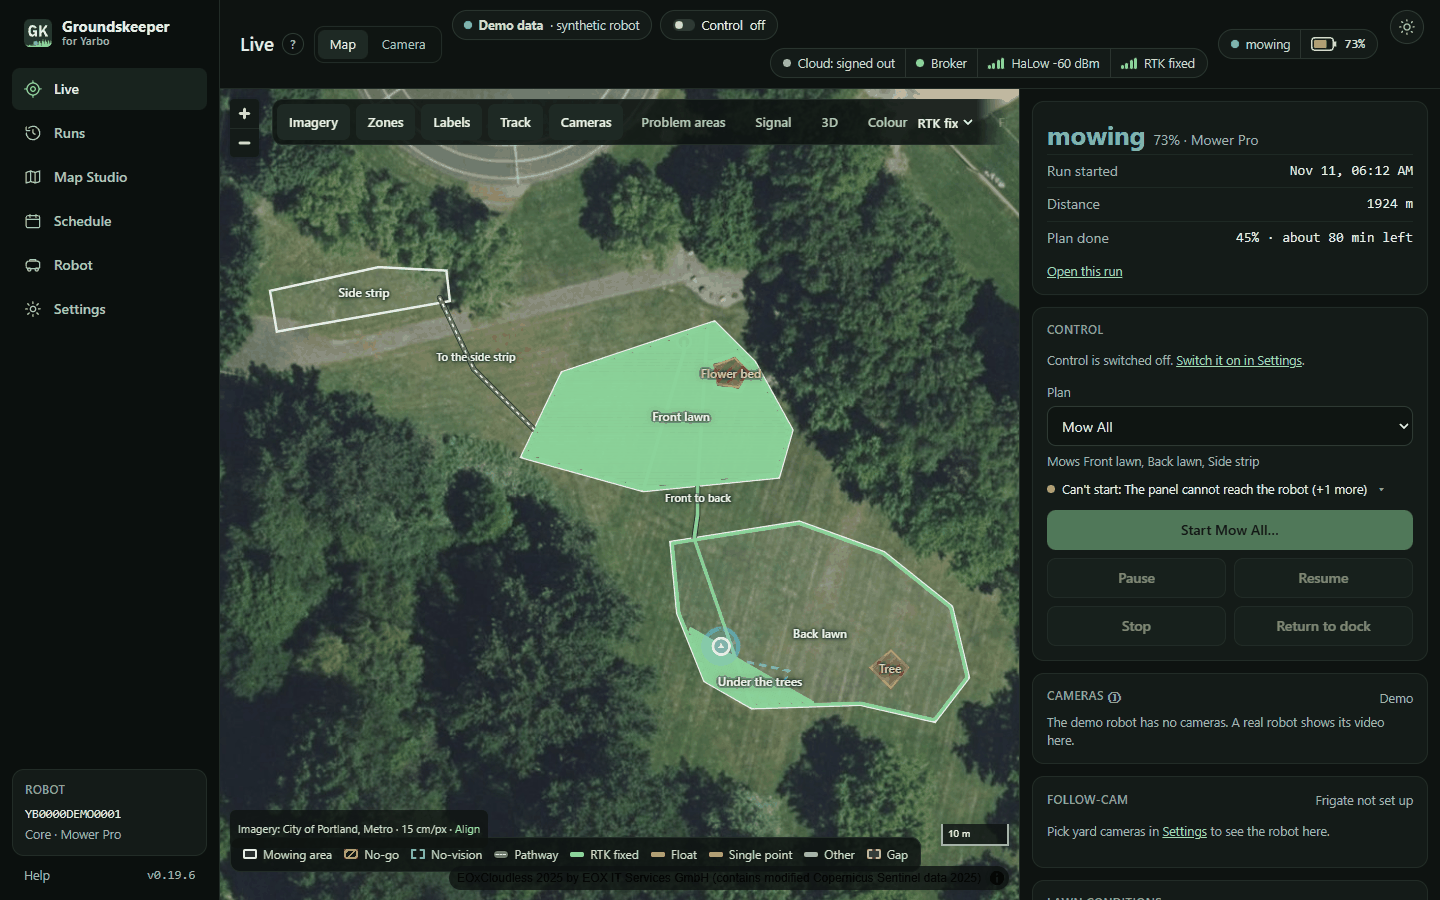
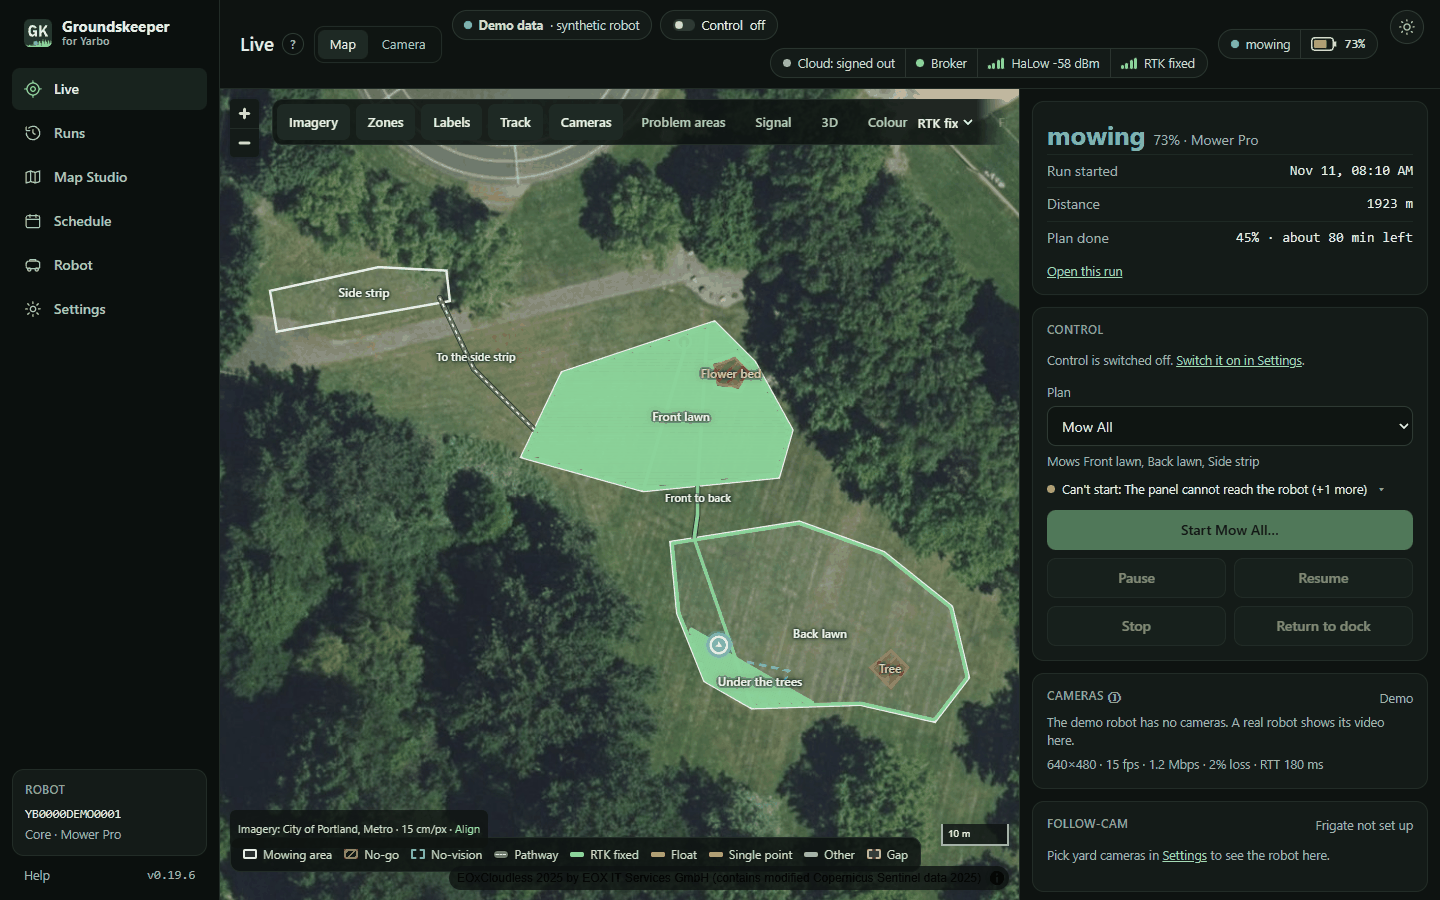
#53: video stats line under the Cameras tile (step 1) (#56)
* #53: show video stats under the Cameras tile (step 1)

One line under the playing video, refreshed every 2 s, from the Agora Web SDK's local counters
(getRemoteVideoStats, getRTCStats, getRemoteNetworkQuality). Nothing is sent anywhere. Says "weak link"
on 5% loss, 10% frozen or a poor downlink, and "slow to draw" when this browser shows far fewer frames
than arrive. The timer stops on every way of leaving. The demo shows a made-up line.

Refs #53 (step 1)

* #53: weak link uses the robot's uplink quality, not its downlink

* #53: keep a real render frame rate of 0 instead of the receive rate

---------

Changed region(s): [[0.7188, 0.84, 0.9688, 0.9644], [0.7188, 0.9956, 0.8125, 1.0], [0.4688, 0.6844, 0.5312, 0.7467]]

diff --git a/web/cameras.js b/web/cameras.js
@@ -30,8 +30,16 @@ const CAM_ROBOT_UID = 1;                           // the robot publishes as uid
 const CAM_SLOW_MS = 15000;                         // joined but no video yet: say why it may be
 const CAM_SETTINGS_MS = 20000;                     // how long a read of the video setting is trusted
 const CAM_SDK_TIMEOUT_MS = 20000;                  // a script load that hangs gives up, so the next try loads again
+const CAM_STATS_MS = 2000;                         // how often the stats line under the video is refreshed
 const CAM_BEAT_MS = 4000;                          // the official app keeps the robot awake about this often while open
 const CAM_JOIN_TIMEOUT_MS = 30000;                 // a join that never settles gives up, so the swap cannot linger
+// "Weak link" thresholds, on the SDK's own numbers (4.24.9): packetLossRate and freezeRate are ratios 0..1, and the network
+// quality is 0 (unknown) to 6 (down), where 4 is "poor". getRemoteNetworkQuality()[uid] describes that remote user's own
+// connection, so for the robot its uplink is the video's source link; its downlink is irrelevant to viewing.
+const CAM_WEAK_LOSS = 0.05;                        // 5% of the robot's packets lost
+const CAM_WEAK_FREEZE = 0.1;                       // frozen for 10% of the time
+const CAM_WEAK_QUALITY = 4;                        // the robot's uplink network quality "poor" or worse
+const CAM_SLOW_DRAW = 0.7;                         // drawn frames under 70% of received ones: the browser, not the link
 const CAM_CONTROL_OFF_HINT = "Control is off, so the panel cannot switch the cameras on or keep the robot awake. They play if the robot already has them on.";
 // STOPGAP (#46). The Web SDK wraps the stream's secret with a built-in 1024-bit RSA key, which holds at most 62 bytes;
 // the robot's secret is 64, so join() throws OperationError. This placeholder (NOT a secret) is what the SDK is given;
@@ -50,7 +58,7 @@ const CAM_SDK_OFF = [
 ];
 
 const cams = { open: false, camera: savedCamera(), phase: "closed", message: "", hint: "", client: null, ticket: 0,
-               slowTimer: null, beatTimer: null, controlOff: false, leaving: Promise.resolve(), settings: null, settingsAt: 0, card: null, stage: null, sdk: null,
+               slowTimer: null, beatTimer: null, statsTimer: null, stats: "", statsWeak: false, statsEl: null, controlOff: false, leaving: Promise.resolve(), settings: null, settingsAt: 0, card: null, stage: null, sdk: null,
                subscribed: 0 };
 
 function savedCamera() {
@@ -82,6 +90,8 @@ async function camerasCard(s) {
   if (!cams.card) {
     cams.stage = h("div", { class: "camsstage", role: "img", "aria-label": "Live view from the robot's camera" });
     cams.card = h("div", { class: "card camscard" });
+    cams.statsEl = h("p", { class: "small muted camstats", style: "margin:6px 0 0", title: "Measured in this browser from the video library's own counters. Nothing is sent anywhere." });
+    camerasStatsShow(cams.demo ? camerasStatsLine(CAM_DEMO_STATS.video, CAM_DEMO_STATS.rtc, CAM_DEMO_STATS.quality) : { text: "", weak: false });
   }
   camerasDraw();
   return cams.card;
@@ -102,7 +112,8 @@ function camerasDraw() {
         h("span", { class: "tip", tabindex: "0", "data-key": "cam-tip", title: "The robot's own cameras, not the yard cameras. They come through Yarbo's cloud and Agora's network, one at a time, and only while this is open." }, "ⓘ")),
       cams.demo ? h("span", { class: "small muted" }, "Demo")
                 : h("span", { class: "small", style: `color:${colour}` }, dot(colour), " ", label)),
-    cams.demo ? h("p", { class: "muted small", style: "margin:6px 0 0" }, "The demo robot has no cameras. A real robot shows its video here.")
+    cams.demo ? [h("p", { class: "muted small", style: "margin:6px 0 0" }, "The demo robot has no cameras. A real robot shows its video here."),
+                 cams.statsEl]
     : cams.open ? [
       h("div", { class: "camchips", role: "group", "aria-label": "Robot camera" },
         CAM_CHOICES.map(([k, name]) => h("button", { type: "button", class: `btn slim${cams.camera === k ? " on" : ""}`, "data-key": `cam-${k}`,
@@ -110,6 +121,7 @@ function camerasDraw() {
           onclick: () => camerasPick(k) }, name)),
         h("button", { type: "button", class: "btn slim", "data-key": "cam-close", title: "Stop the video and leave the channel", onclick: () => camerasStop() }, "Close")),
       cams.stage,
+      cams.statsEl,
       cams.message ? h("p", { class: "small", style: `margin:6px 0 0;color:${colour}`, role: "status" }, cams.message) : null,
       cams.hint ? h("p", { class: "muted small", style: "margin:4px 0 0" }, cams.hint) : null,
       cams.phase === "error" ? h("button", { type: "button", class: "btn slim", "data-key": "cam-retry", style: "margin-top:6px", onclick: () => camerasStart({ on: true }) }, "Try again") : null]
@@ -118,6 +130,63 @@ function camerasDraw() {
         h("button", { type: "button", class: "btn slim", "data-key": "cam-open", title: "Switch the robot's cameras on and show one here. Needs Control on.",
           onclick: () => camerasOpen() }, "Open")),
       cams.message ? h("p", { class: "muted small", style: "margin:6px 0 0", role: "status" }, cams.message) : null]), after);
+}
+
+// Made-up numbers for the demo, which never loads the SDK: it shows what the line looks like on a real robot.
+const CAM_DEMO_STATS = { video: { receiveResolutionWidth: 640, receiveResolutionHeight: 480, renderFrameRate: 15, receiveFrameRate: 15,
+                                  receiveBitrate: 1234000, packetLossRate: 0.02, freezeRate: 0, totalFreezeTime: 0, end2EndDelay: 0 },
+                         rtc: { RTT: 180 }, quality: { uplinkNetworkQuality: 2 } };
+
+// The line under the video, from the SDK's local counters (read by camerasStatsStart). Returns { text, weak }; text is ""
+// when there are no numbers yet. Only numbers are used: no ids, names, tokens or addresses can get in.
+function camerasStatsLine(video, rtc, quality) {
+  const num = (v) => (typeof v === "number" && Number.isFinite(v) ? v : 0);
+  const v = video || {};
+  const w = num(v.receiveResolutionWidth), ht = num(v.receiveResolutionHeight);
+  const bps = num(v.receiveBitrate), loss = num(v.packetLossRate), freezeRate = num(v.freezeRate), froze = num(v.totalFreezeTime);
+  const received = num(v.receiveFrameRate), drawn = typeof v.renderFrameRate === "number" && Number.isFinite(v.renderFrameRate) ? v.renderFrameRate : received;   // a real 0 stays 0
+  const rtt = num(rtc && rtc.RTT), delay = num(v.end2EndDelay);
+  if (!w && !bps && !drawn) return { text: "", weak: false };      // nothing received yet
+  const weak = loss >= CAM_WEAK_LOSS || freezeRate >= CAM_WEAK_FREEZE || num(quality && quality.uplinkNetworkQuality) >= CAM_WEAK_QUALITY;
+  const slow = !weak && received >= 5 && drawn < received * CAM_SLOW_DRAW;
+  const pct = loss * 100;
+  const parts = [
+    w && ht ? `${Math.round(w)}×${Math.round(ht)}` : "",
+    `${Math.round(drawn)} fps`,
+    bps >= 1e6 ? `${(bps / 1e6).toFixed(1)} Mbps` : `${Math.round(bps / 1e3)} kbps`,
+    pct > 0 && pct < 1 ? "<1% loss" : `${Math.round(pct)}% loss`,
+    rtt > 0 ? `RTT ${Math.round(rtt)} ms` : "",
+    delay > 0 ? `delay ${Math.round(delay)} ms` : "",
+    froze >= 1 ? `froze ${Math.round(froze)} s` : "",
+    weak ? "weak link" : slow ? "slow to draw" : ""];               // weak link: the robot's side or the network; slow to draw: this browser
+  return { text: parts.filter(Boolean).join(" · "), weak };
+}
+
+// Puts the line on the tile. It updates the one paragraph in place (no redraw), so the playing video is not touched.
+function camerasStatsShow({ text, weak }) {
+  cams.stats = text;
+  cams.statsWeak = weak;
+  if (!cams.statsEl) return;
+  cams.statsEl.textContent = text;
+  cams.statsEl.hidden = !text;
+  cams.statsEl.className = `small muted camstats${weak ? " weak" : ""}`;
+}
+
+const camerasStatsClear = () => camerasStatsShow({ text: "", weak: false });
+
+// Reads the SDK's local counters for the robot, every CAM_STATS_MS while its video plays. Nothing is sent anywhere. A
+// read that throws shows nothing and logs nothing.
+function camerasStatsStart(client, ticket) {
+  clearInterval(cams.statsTimer);
+  const read = () => {
+    if (ticket !== cams.ticket || !cams.open || cams.client !== client) return;
+    try {
+      const video = (client.getRemoteVideoStats() || {})[CAM_ROBOT_UID];
+      const quality = (client.getRemoteNetworkQuality() || {})[CAM_ROBOT_UID];
+      camerasStatsShow(camerasStatsLine(video, client.getRTCStats(), quality));
+    } catch { camerasStatsClear(); }
+  };
+  cams.statsTimer = setInterval(read, CAM_STATS_MS);
 }
 
 function camerasSet(phase, message, hint) {
@@ -151,6 +220,9 @@ function camerasLeave() {
   clearTimeout(cams.slowTimer);
   clearInterval(cams.beatTimer);                    // no more keep-awake beats, on every way of stopping
   cams.beatTimer = null;
+  clearInterval(cams.statsTimer);                   // and no more stats reads
+  cams.statsTimer = null;
+  camerasStatsClear();
   cams.controlOff = false;
   if (camSwapRemove) camSwapRemove();               // the secret swap lives as long as the client
   const client = cams.client;
@@ -409,6 +481,9 @@ function camerasListen(client, ticket) {
   client.on("user-unpublished", (user, mediaType) => {
     if (live() && Number(user.uid) === CAM_ROBOT_UID && mediaType === "video") {   // not the robot's audio stopping
       cams.subscribed = 0;                        // a later user-published subscribes again
+      clearInterval(cams.statsTimer);
+      cams.statsTimer = null;
+      camerasStatsClear();
       if (cams.stage) cams.stage.replaceChildren();
       camerasSet("waiting", "The robot stopped sending video.", "Its cameras may have switched off, or it went to sleep.");
     }
@@ -434,6 +509,7 @@ async function camerasPlay(client, user, mediaType, ticket) {
   if (ticket !== cams.ticket || !cams.open || !user.videoTrack) return;
   clearTimeout(cams.slowTimer);
   user.videoTrack.play(cams.stage, { fit: "contain" });
+  camerasStatsStart(client, ticket);
   camerasSet("playing", "");
 }
 

diff --git a/web/style.css b/web/style.css
@@ -278,6 +278,8 @@ a { color: var(--link); }
 .camchips { display: flex; flex-wrap: wrap; gap: 6px; }
 /* Live's Cameras tile: the robot's own cameras. The stage keeps a 16:9 box whatever the video does. */
 .camscard .camchips { margin-top: 8px; }
+.camstats { font-variant-numeric: tabular-nums; }
+.camstats.weak { color: var(--warn); }
 .camsstage { margin-top: 8px; aspect-ratio: 16 / 9; width: 100%; border-radius: 8px; overflow: hidden; background: var(--map-ink); }
 .camsstage video { object-fit: contain; }
 .btn.on { background: var(--pressed); border-color: var(--line3); }

diff --git a/tests/test_cameras_js.py b/tests/test_cameras_js.py
@@ -294,7 +294,7 @@ def test_the_first_beat_goes_before_camera_on_and_then_one_every_four_seconds():
 @needs_node
 def test_changing_camera_restarts_the_beats_without_a_second_timer():
     seg = segment(run_flow(), "beats-pick", beats=True)
-    assert [c[0] for c in seg if c[0] in BEAT_CALLS] == ["clear-interval", "interval", "beat"]
+    assert [c[0] for c in seg if c[0] in BEAT_CALLS] == ["clear-interval", "clear-interval", "interval", "beat"]   # the second clear is the stats timer (#53), playing before the pick
     assert ["intervals", 1] in seg
 
 
@@ -446,3 +446,76 @@ def test_a_wrapper_that_cannot_be_restored_goes_quiet_once_removed():
     seg = segment(calls, "direct-wrapped-over")
     frames = [c for c in seg if c[0] == "ws-send"]
     assert len(frames) == 1 and "WRAPPED-BY-THE-SDK" in frames[0][1] and "OVERSECRET" not in frames[0][1]
+
+
+# --- Video stats under the tile (#53, step 1): the SDK's own local counters, read here, sent nowhere. ---
+
+def stats_lines(calls):
+    return {c[1]: (c[2], c[3]) for c in calls if c[0] == "stats"}
+
+
+@needs_node
+def test_the_stats_line_formats_the_sdks_counters():
+    lines = stats_lines(run_flow())
+    assert lines["healthy"] == ("640×480 · 15 fps · 1.2 Mbps · 2% loss · RTT 180 ms", False)
+    assert lines["delay"][0].endswith("RTT 180 ms · delay 320 ms")
+    assert lines["kbps"][0] == "640×480 · 15 fps · 640 kbps · <1% loss · RTT 180 ms"
+    assert lines["no-rtt"][0] == "640×480 · 15 fps · 1.2 Mbps · 2% loss"
+
+
+@needs_node
+def test_a_weak_link_is_said_when_loss_freezes_or_the_quality_is_poor():
+    lines = stats_lines(run_flow())
+    assert lines["loss"] == ("640×480 · 15 fps · 1.2 Mbps · 8% loss · RTT 180 ms · weak link", True)
+    assert lines["freeze"] == ("640×480 · 15 fps · 1.2 Mbps · 2% loss · RTT 180 ms · froze 6 s · weak link", True)
+    assert lines["quality"] == ("640×480 · 15 fps · 1.2 Mbps · 2% loss · RTT 180 ms · weak link", True)
+    assert lines["downlink-ignored"] == ("640×480 · 15 fps · 1.2 Mbps · 2% loss · RTT 180 ms", False)    # only the robot's uplink counts
+    assert lines["quality-unknown"][1] is False and "weak" not in lines["quality-unknown"][0]    # 0 means unknown, not poor
+
+
+@needs_node
+def test_a_slow_browser_is_told_apart_from_a_weak_link():
+    text, weak = stats_lines(run_flow())["slow-browser"]
+    assert text.endswith("slow to draw") and "weak link" not in text and weak is False
+    stalled = stats_lines(run_flow())["render-stalled"]
+    assert stalled == ("640×480 · 0 fps · 1.2 Mbps · 2% loss · RTT 180 ms · slow to draw", False)   # a stalled renderer is not masked
+    assert stats_lines(run_flow())["render-missing"][0].startswith("640×480 · 12 fps")                  # no render counter: use the receive rate
+
+
+@needs_node
+def test_no_numbers_means_no_line_and_a_throwing_sdk_is_quiet():
+    calls = run_flow()
+    assert next(c for c in calls if c[0] == "stats-before") == ["stats-before", ""]
+    lines = stats_lines(calls)
+    for name in ("nothing-yet", "no-user", "bad-numbers", "throws"):
+        assert lines[name] == ("", False), name
+
+
+@needs_node
+def test_the_stats_line_never_carries_a_secret_channel_or_uid():
+    calls = run_flow()
+    assert next(c for c in calls if c[0] == "stats-line-secret-free")[1] is True
+    assert not re.search(r"console\.", CODE)
+
+
+@needs_node
+def test_the_stats_timer_stops_on_every_way_of_stopping():
+    stopped = [c for c in run_flow() if c[0] == "stats-stopped"]
+    assert [c[1] for c in stopped] == ["close", "hidden", "pagehide", "leave-live", "connection-lost", "robot-stops-video"]
+    for _, name, shown, after, reads, timers in stopped:
+        assert shown.startswith("640×480") and after == "" and reads == 0, name
+        assert timers == (1 if name == "robot-stops-video" else 0), name      # that one stays open: the keep-awake beat goes on
+
+
+@needs_node
+def test_changing_camera_clears_the_line_and_never_doubles_the_timer():
+    calls = run_flow()
+    assert next(c for c in calls if c[0] == "stats-after-pick") == ["stats-after-pick", "", 1]   # only the keep-awake beat is left
+    assert next(c for c in calls if c[0] == "stats-timers") == ["stats-timers", 2]               # beat + one stats timer
+
+
+def test_the_stats_source_reads_only_local_sdk_counters_every_two_seconds():
+    assert "CAM_STATS_MS = 2000" in CODE
+    for call in ("getRemoteVideoStats", "getRTCStats", "getRemoteNetworkQuality"):
+        assert CODE.count(f".{call}(") == 1
+    assert re.search(r"function camerasLeave\(\) \{[^}]*clearInterval\(cams\.statsTimer\)", CODE, re.S)

diff --git a/docs/user/live.md b/docs/user/live.md
@@ -75,8 +75,13 @@ are pink, edge passes violet.
   `Referer` of the SDK's requests) and your browser's address. The stream's secret is longer than Agora's Web SDK can
   wrap, so the panel puts it into the SDK's join message and access-point request itself, unwrapped inside the TLS connections to Agora, whose
   servers decrypt the stream for your browser anyway; this is a stopgap until Agora fixes their SDK (issue #46). The SDK also keeps a few items of its own in this
-  browser's storage; the panel clears them when the SDK has loaded and when the tile leaves the channel. The demo shows
-  a placeholder card ("The demo robot has no cameras"; it loads nothing from Agora). It has played the back camera during a run while the Yarbo app was also open. **Known limitations**,
+  browser's storage; the panel clears them when the SDK has loaded and when the tile leaves the channel. Under the
+  video, one line shows what this browser is receiving, refreshed every 2 seconds, for example
+  `640×480 · 15 fps · 1.2 Mbps · 2% loss · RTT 180 ms`. It is read from the video library's own counters in your
+  browser and sent nowhere. **weak link** means 5% or more of the packets were lost, the picture froze for 10% of the
+  time, or the library rates the robot's upload poor: look at the robot's signal (HaLow, 4G) first. **slow to draw**
+  means frames arrive but this browser shows far fewer: try another tab or device. The demo shows
+  a placeholder card ("The demo robot has no cameras"; it loads nothing from Agora) with a made-up example line. It has played the back camera during a run while the Yarbo app was also open. **Known limitations**,
   from one robot so far:
   - Waking a docked, sleeping robot is not shown to work: with the Yarbo app closed, no video arrived within about
     35 seconds. Opening the Yarbo app once, or a running plan, may be needed first.

diff --git a/CHANGELOG.md b/CHANGELOG.md
@@ -7,6 +7,11 @@ robot card. Before 0.9.0 the panel had no version numbers; those changes are lis
 
 ### Added
 
+- **A stats line under the Cameras tile's video** (#53), refreshed every 2 seconds while it plays, for example
+  `640×480 · 15 fps · 1.2 Mbps · 2% loss · RTT 180 ms`. It comes from the video library's own counters in your browser
+  and nothing is sent anywhere. It says **weak link** when loss is 5% or more, the picture froze for 10% of the time
+  or the library rates the robot's upload poor, and **slow to draw** when this browser shows far fewer frames than arrive. The
+  demo shows a made-up line. Sending samples to the panel to map weak spots is not part of this.
 - **"Metrics only" API tokens** (Settings → Access, or `"scope": "metrics"` on `POST /api/auth/tokens`). Such a token
   can read `/api/metrics` and is refused (403) on every other locked path (`/api/`, `/tiles/`, `/imagery/`), so a
   scrape token that leaks gives away nothing about the yard. Existing tokens stay full, and the box is off by
